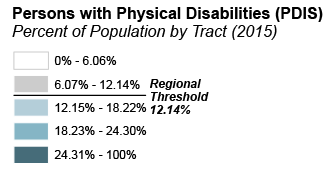
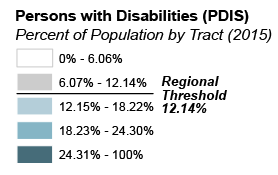
updated PDIS
updated PDIS

Changed region(s): [[0.0288, 0.2571, 0.8345, 0.8], [0.0288, 0.0286, 1.0, 0.2571], [0.0288, 0.8286, 0.518, 0.9429]]

diff --git a/index.htm b/index.htm
@@ -343,7 +343,7 @@ background-repeat: no-repeat;
             </li>
 			   <li>
               <a href="#" onclick="$('#DISModal').modal('show'); return false;" data-value="DISPCT" >
-                <img class="img-legend" src="img/5.png" > Persons with Physical Disabilities (PDIS)</a>
+                <img class="img-legend" src="img/5.png" > Persons with Disabilities (PDIS)</a>
             </li>
            
           </ul>
@@ -399,7 +399,7 @@ background-repeat: no-repeat;
                 <li>Elderly (75 years and over)</li>
                 <li>Hispanic</li>
                 <li>Limited English Proficiency</li>
-				<li>Persons with a Physical Disability</li>
+				        <li>Persons with Disabilities</li>
               </ul>
               Using U.S. Census
               <a href="http://www.census.gov/acs/www/" target="_blank">American Community Survey (ACS)</a>
@@ -467,7 +467,20 @@ background-repeat: no-repeat;
        </p>
        <p>
         <b> Abbreviation List:</b><br>
-               <img src="img/list.png" alt="** PLEASE DESCRIBE THIS IMAGE **">
+                <ul style="font-size:90%">
+                <li>IPD = Indicators of Potential Disadvantage</li>
+                <li>NHM = Non-Hispanic Minority</li>
+                <li>CH = Carless Households</li>
+                <li>POV = Households in Poverty</li>
+                <li>FHHC = Female Head of Household with Child</li>
+                <li>ELD75 = Elderly (75 years and over)</li>
+                <li>HIS = Hispanic</li>
+                <li>LEP = Limited English Proficiency</li>
+                <li>PDIS = Persons with Disabilities</li>
+                <li>Pop. = Total Population</li>
+                <li>Pop.5yr = Total Population (over 5 years)</li>
+                <li>HH = Total Households</li>
+              </ul>
        </p>
         </div>
       </div>
@@ -489,7 +502,7 @@ background-repeat: no-repeat;
             <li>Non-Hispanic Minority</li>
             <li>Carless Households</li>
             <li>Households in Poverty</li>
-            <li>Persons with a Physical Disability</li>
+            <li>Persons with Disabilities</li>
             <li>Female Head of Household with Child</li>
             <li>Elderly (75 years and over)</li>
             <li>Hispanic</li>
@@ -638,14 +651,14 @@ background-repeat: no-repeat;
       <div class="modal-content">
         <div class="modal-header">
           <button type="button" class="close" data-dismiss="modal">&times;</button>
-          <h4 class="modal-title"><img class="img-legend" src="img/5.png"> Persons with Physical Disabilities (PDIS)</h4>
+          <h4 class="modal-title"><img class="img-legend" src="img/5.png"> Persons with Disabilities (PDIS)</h4>
         </div>
         <div class="modal-body">
           <B> Regional Threshold: 12.14 percent <br>
-        County Thresholds: 8.16 percent to 15.92 percent </B>
-              <p>The analysis of the distribution of persons with physical disabilities relies on data from the U.S. Census, which defines a physical disability as "a condition that substantially limits one or more basic physical activities, such as walking, climbing stairs, reaching, lifting, or carrying."
-      </p>
-          <img src="img/legend/Disability.png">
+              County Thresholds: 8.16 percent to 15.92 percent </B>
+              <p>ACS uses several questions and data sources to try to capture six aspects of disability - hearing, vision, cognition, ambulation, difficulty bathing and dressing, and difficulty performing errands such as shopping - which can be used together to create an overall disability measure. Individuals with different ability levels have different travel patterns and needs. 
+              </p>
+          <img src="img/legend/disability.png">
           <img src="img/legend/disability_bar.png"></div>
       </div>
     </div>
@@ -783,8 +796,8 @@ function loadImageCH(){
   $('#legendMap').css('height', '175');
 }
 function loadImagePDIS(){
-  $('#legendMap').css('backgroundImage', 'url(img/legend/Disability.png)');
-  $('#legendMap').css('width', '327');
+  $('#legendMap').css('backgroundImage', 'url(img/legend/disability.png)');
+  $('#legendMap').css('width', '278');
   $('#legendMap').css('height', '175');
 }
 
